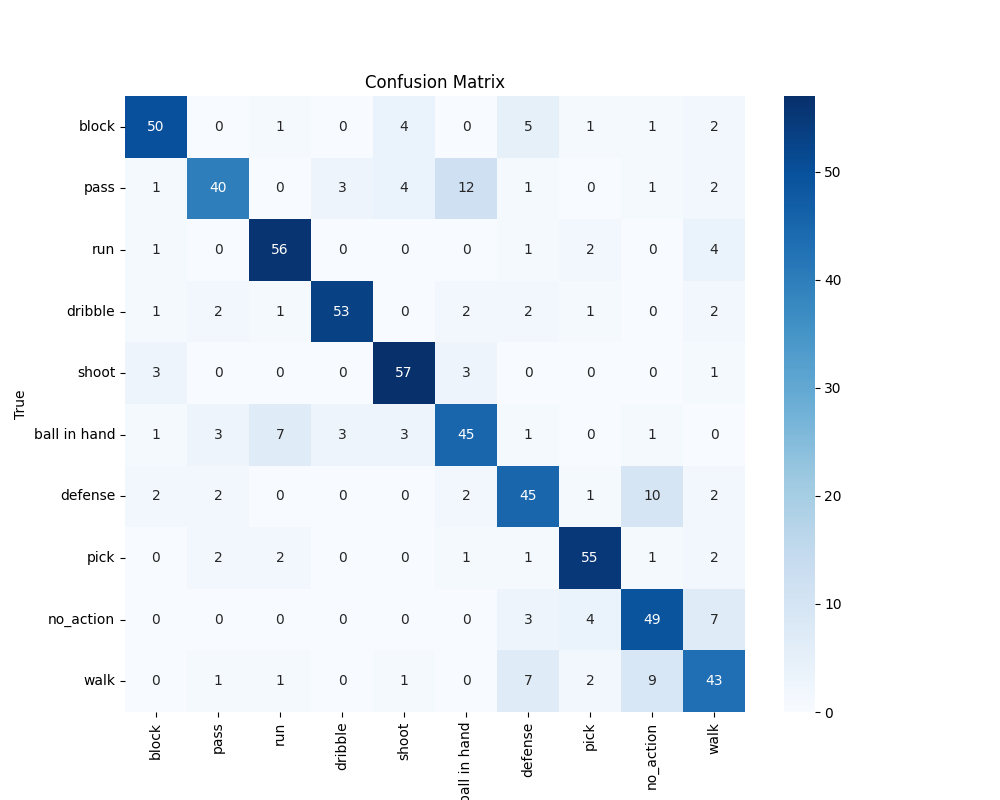
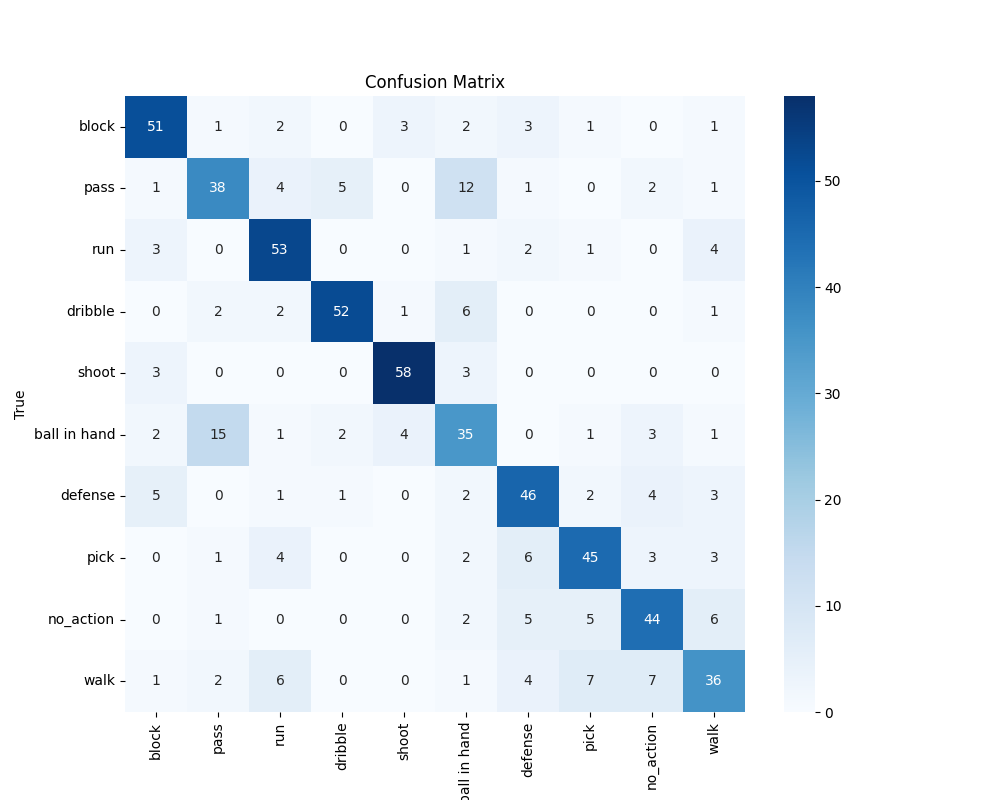
layers freezing implemented, 72% accuracy

diff --git a/slowfasttrain.py b/slowfasttrain.py
@@ -145,12 +145,25 @@ optimizer = optim.Adam(model.parameters(), lr=LEARNING_RATE, weight_decay=1e-5)
 scheduler = optim.lr_scheduler.StepLR(optimizer, step_size=5, gamma=0.1)
 
 # Training Function
-def train_model(model, train_loader, val_loader, criterion, optimizer, scheduler, num_epochs):
-    best_val_accuracy = 0.0
+def train_model(model, train_loader, val_loader, criterion, optimizer, scheduler, num_epochs, patience, unfreeze_schedule=None):
+    best_val_loss = float('inf')
+    epochs_without_improvement = 0
+
+    # Freeze the base model's weights initially
+    for name, param in model.named_parameters():
+        if "blocks.5" not in name:  # Freeze all layers except blocks.5
+            param.requires_grad = False
 
     for epoch in range(num_epochs):
         model.train()
         train_loss, train_correct, train_total = 0.0, 0, 0
+
+        # Unfreeze the base model's weights after the specified epoch
+        if unfreeze_schedule and epoch in unfreeze_schedule:
+            print(f"Unfreezing blocks starting from block {unfreeze_schedule[epoch]} at epoch {epoch + 1}")
+            for name, param in model.named_parameters():
+                if f"blocks.{unfreeze_schedule[epoch]}" in name:  # Unfreeze the specified block and earlier blocks
+                    param.requires_grad = True
 
         # Wrap train_loader with tqdm for progress bar
         train_loader_tqdm = tqdm(train_loader, desc=f"Epoch {epoch + 1}/{num_epochs}", leave=False)
@@ -185,9 +198,15 @@ def train_model(model, train_loader, val_loader, criterion, optimizer, scheduler
             f"Val Accuracy: {val_accuracy:.4f}"
         )
 
-        if val_accuracy > best_val_accuracy:
-            best_val_accuracy = val_accuracy
+        if val_loss < best_val_loss:
+            best_val_loss = val_loss
+            epochs_without_improvement = 0
             torch.save(model.state_dict(), "best_model.pth")
+        else:
+            epochs_without_improvement += 1
+            if epochs_without_improvement >= patience:
+                print("Early stopping triggered.")
+                break
 
         scheduler.step()
 
@@ -258,6 +277,11 @@ def plot_confusion_matrix(y_true, y_pred, class_names):
 
 # Main Execution
 if __name__ == "__main__":
-    train_model(model, train_loader, val_loader, criterion, optimizer, scheduler, NUM_EPOCHS)
+    unfreeze_schedule = {
+        4: 4,  # Unfreeze block 4 at epoch 5
+        6: 3,  # Unfreeze block 3 at epoch 6
+        8: 2,  # Unfreeze block 2 at epoch 7
+    }
+    train_model(model, train_loader, val_loader, criterion, optimizer, scheduler, NUM_EPOCHS, 5, unfreeze_schedule)
     model.load_state_dict(torch.load("best_model.pth"))
     test_model(model, test_loader, class_names)
